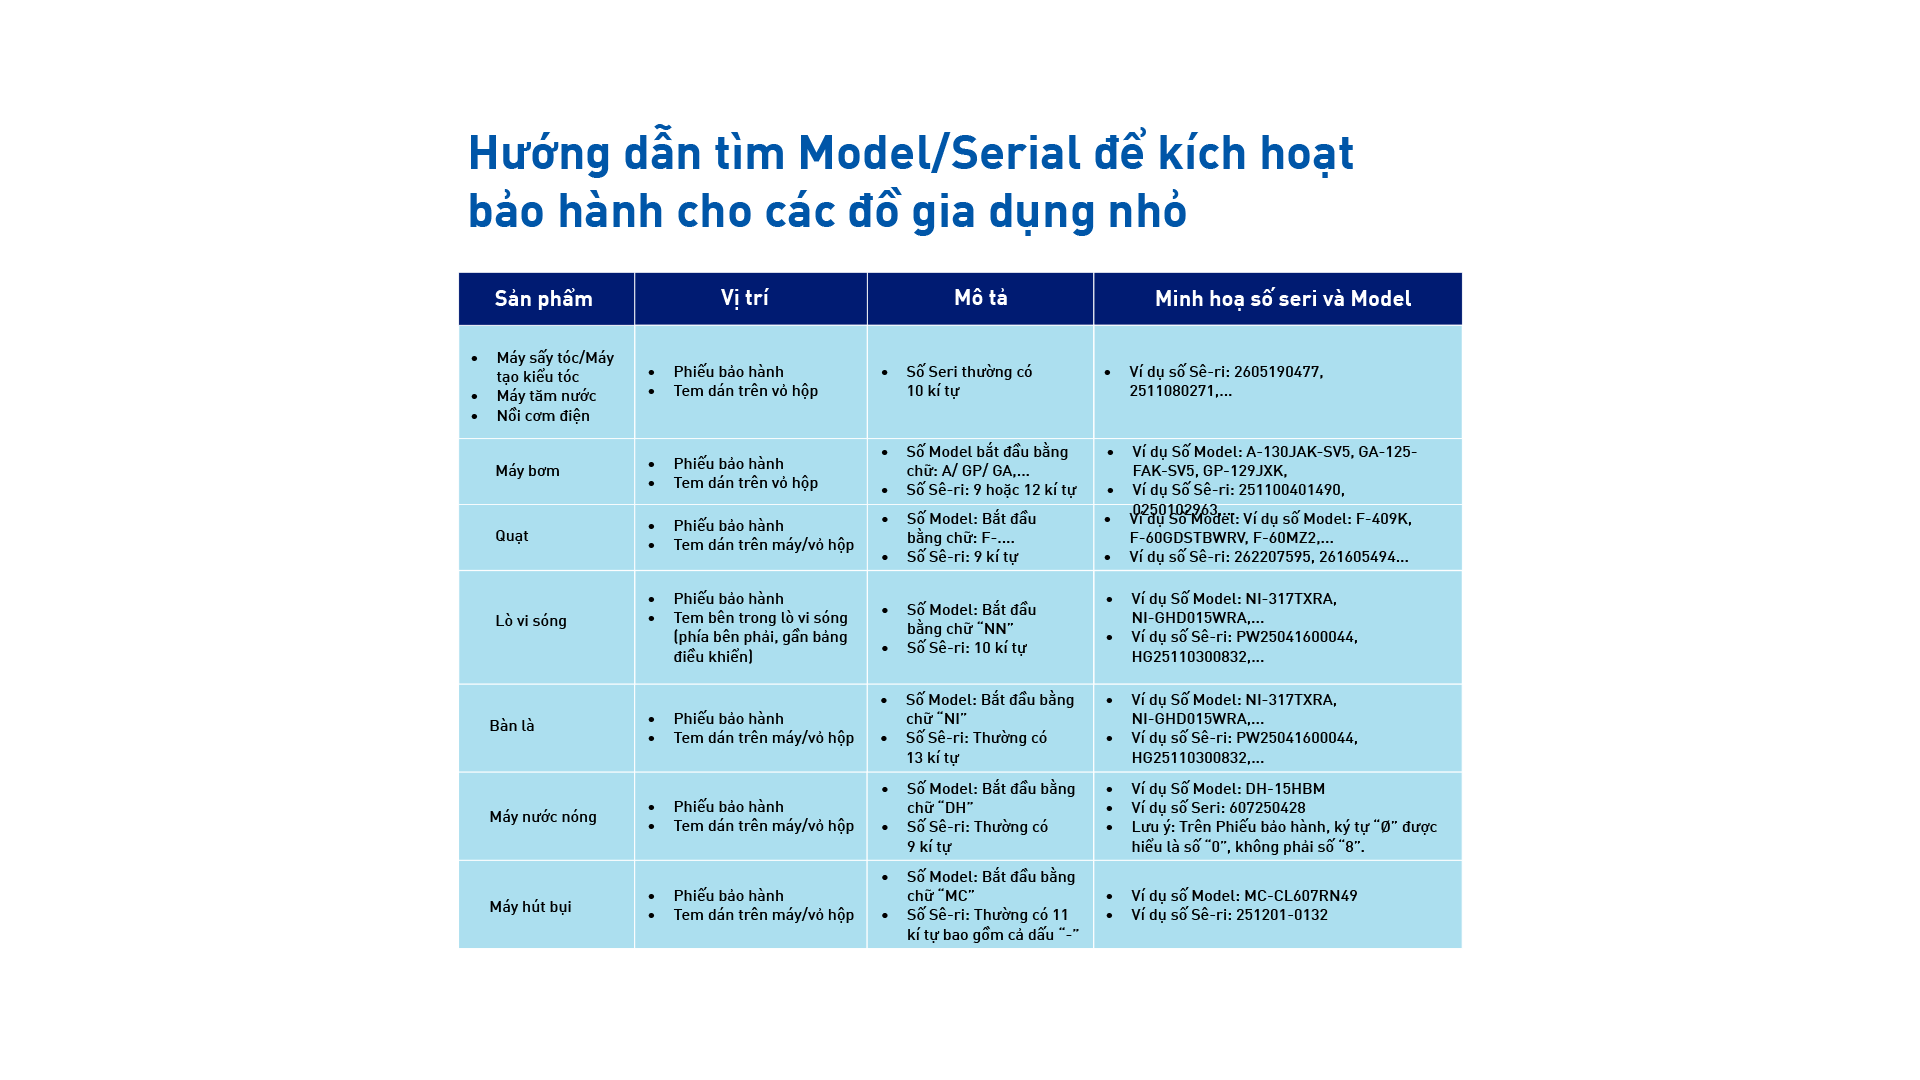
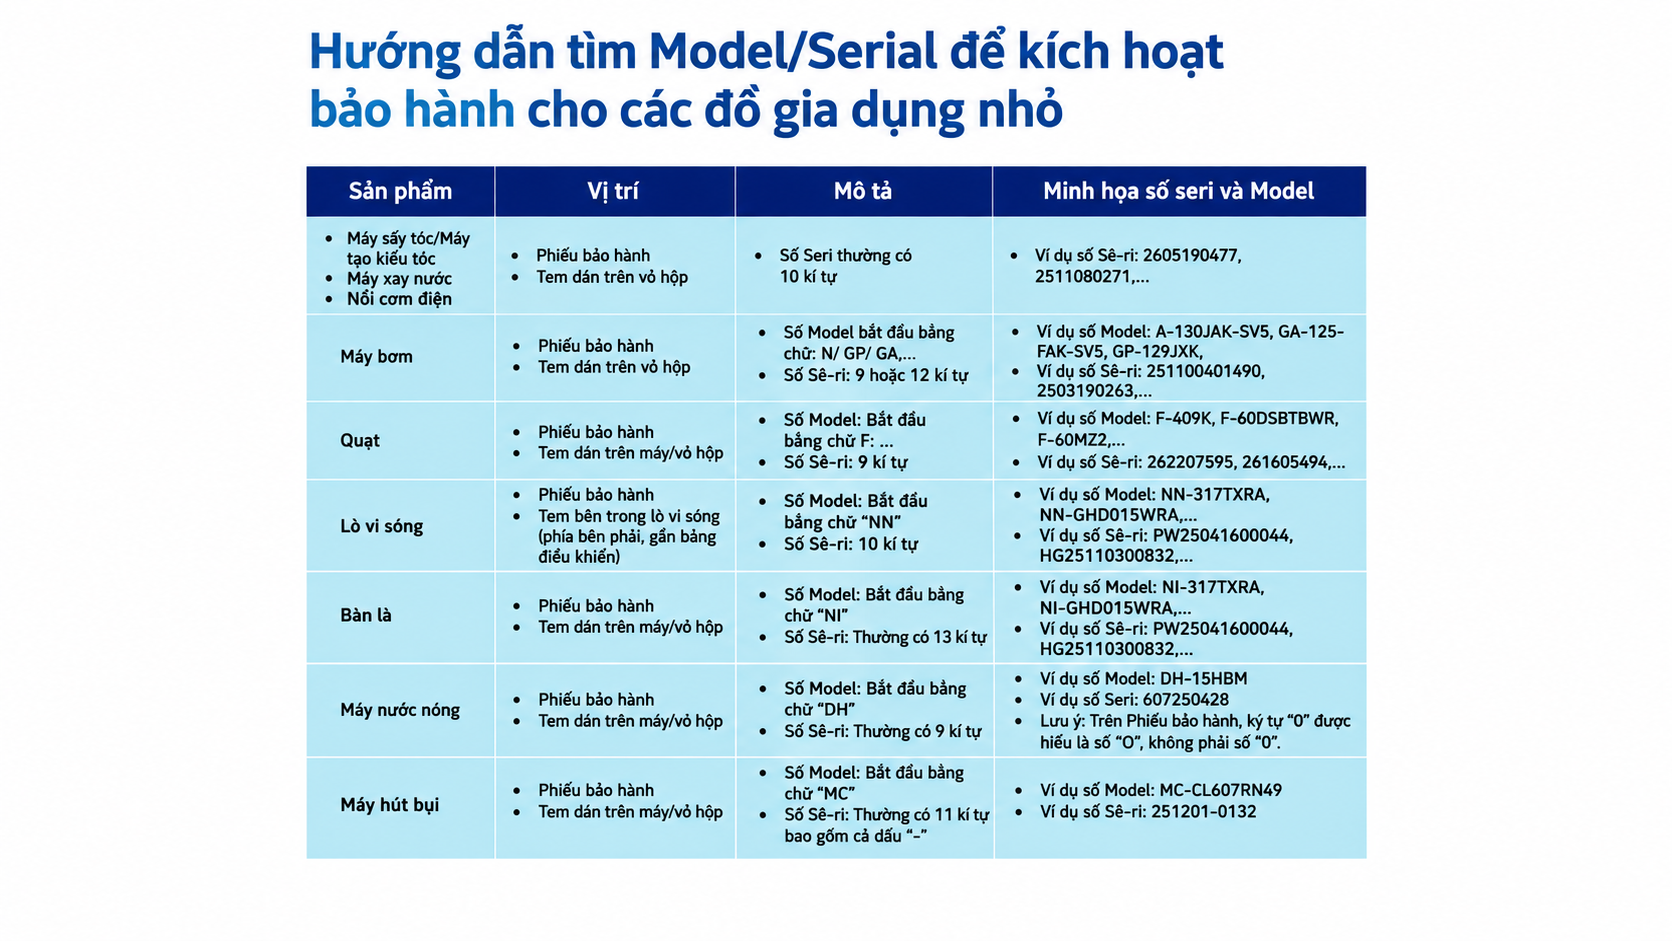
Replace the small appliance guide artwork

Changed region(s): [[0.1555, 0.0308, 0.8397, 0.9245]]

diff --git a/e-warranty-package/e-warranty.html b/e-warranty-package/e-warranty.html
@@ -486,7 +486,8 @@
 .ew-guide-image--ac{aspect-ratio:1080 / 610}
 .ew-guide-image--ac img{top:-62.2951%}
 #model-guide-small{container-type:inline-size}
-.ew-guide-image--table{min-width:720px}
+.ew-guide-image--table{min-width:720px;aspect-ratio:1080 / 715}
+.ew-guide-image--table img{top:-21.6783%;left:-27.4074%;width:154.8148%}
 @container(max-width:721px){
   #model-guide-small .ew-guide-scroll-note{display:block;margin:0 0 8px;font-size:13px}
 }
@@ -857,7 +858,7 @@
     <p>Với máy sấy tóc, kiểm tra nhãn trên thân hoặc tay cầm. Tìm Model No. (mã model) và Serial No. (số sê-ri) nếu có. Với thiết bị khác, xem hướng dẫn sử dụng của sản phẩm để xác định vị trí tem.</p>
     <p class="ew-guide-scroll-note">Vuốt ngang để xem toàn bộ hình.</p>
     <div class="ew-guide-image-view" tabindex="0" role="region" aria-label="Hình hướng dẫn cho đồ gia dụng nhỏ">
-      <div class="ew-guide-image ew-guide-image--table"><img src="assets/popup-huongdankichhoat.png" alt="Bảng vị trí và ví dụ về mã Model Number và Serial Number của đồ gia dụng nhỏ Panasonic" width="1920" height="1080" loading="lazy"></div>
+      <div class="ew-guide-image ew-guide-image--table"><img src="assets/popup-huongdankichhoat.png" alt="Bảng vị trí và ví dụ về mã Model Number và Serial Number của đồ gia dụng nhỏ Panasonic" width="1672" height="941" loading="lazy"></div>
     </div>
   </article>
 </dialog>
